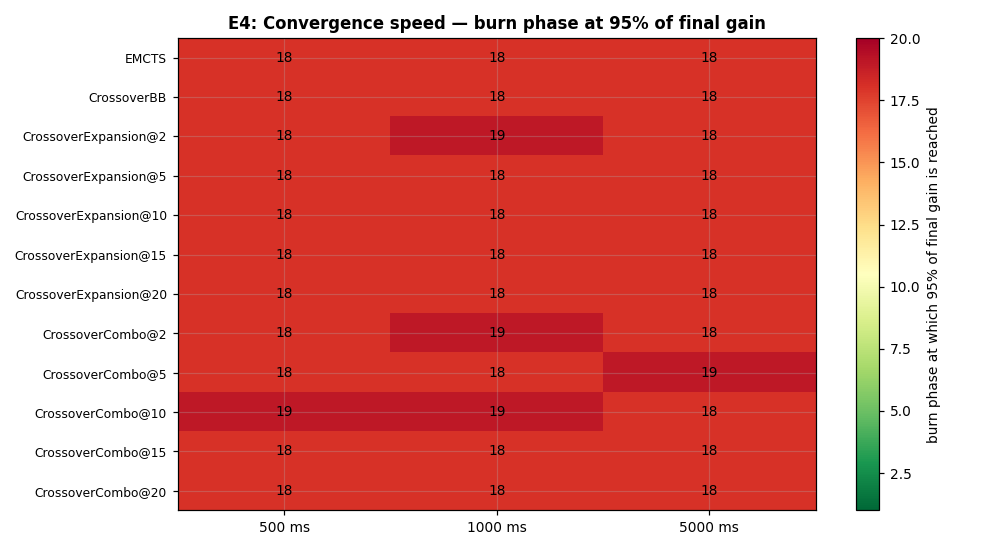
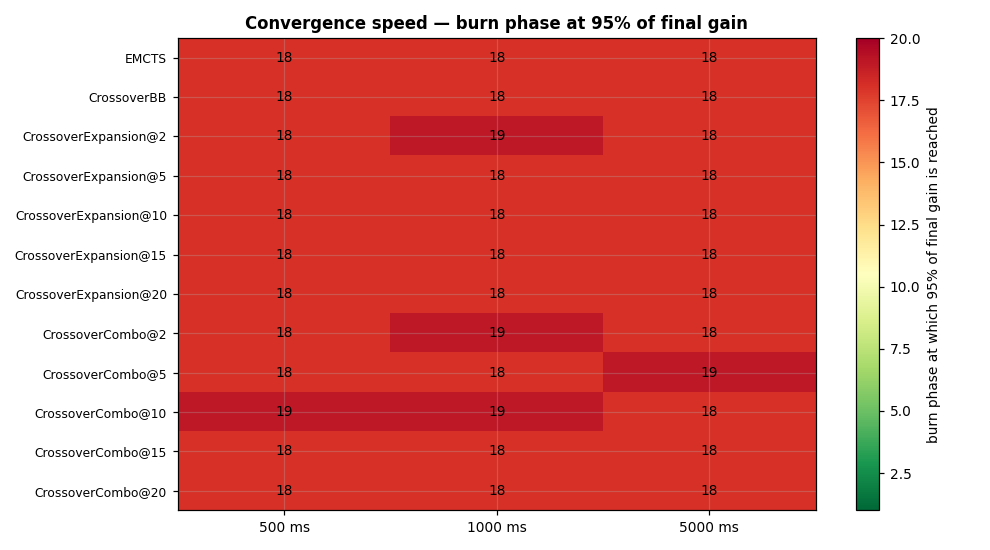
v4 figures: drop "E1:"..."E11:" prefixes from titles
Internal analysis-tracking labels do not belong in report figures - the
report will number them on its own. Eleven figure titles updated; the
filename and the prefixed console log lines are left alone since they
are not visible in the report.

Changed region(s): [[0.2121, 0.0309, 0.7879, 0.0618]]

diff --git a/Tribes-master/analysis/analyze_v4_full.py b/Tribes-master/analysis/analyze_v4_full.py
@@ -408,7 +408,7 @@ def extra_paired_delta_with_ci(turn_df):
         ax.axvline(0, color='black', lw=0.8)
         ax.set_title(f'{key}' + (' ms' if key != 'avg' else ''))
         ax.set_xlabel('paired Δ vs EMCTS (FinalSequenceValue, ±95% CI)')
-    fig.suptitle('E1: Paired Δ vs EMCTS (same scenario × visit pair, ±95% CI)',
+    fig.suptitle('Paired Δ vs EMCTS (same scenario × visit pair, ±95% CI)',
                  fontweight='bold')
     fig.tight_layout(); fig.savefig(FIGS / 'E1_paired_delta_with_ci.png'); plt.close(fig)
     # table
@@ -451,7 +451,7 @@ def extra_best_ratio_per_budget(turn_df):
         ax.set_xticks(RATIOS); ax.set_xlabel('mutationExpansionRatio (higher = less crossover)')
         ax.set_ylabel('paired Δ vs EMCTS')
         ax.set_title(agent_base); ax.legend(fontsize=8)
-    fig.suptitle('E2: Best ratio per budget — Crossover{Expansion,Combo} (paired Δ vs EMCTS)',
+    fig.suptitle('Best ratio per budget — Crossover{Expansion,Combo} (paired Δ vs EMCTS)',
                  fontweight='bold')
     fig.tight_layout(); fig.savefig(FIGS / 'E2_best_ratio_per_budget.png'); plt.close(fig)
 
@@ -494,7 +494,7 @@ def extra_single_vs_dual(turn_df, portfolio):
         ax.set_title(f'{ms} ms')
         ax.set_ylabel('mean FinalSequenceValue advantage over EMCTS')
     axes[0].legend(fontsize=8, loc='lower left')
-    fig.suptitle('E3: Single-player vs dual-player portfolio split — paired Δ vs EMCTS',
+    fig.suptitle('Single-player vs dual-player portfolio split — paired Δ vs EMCTS',
                  fontweight='bold')
     fig.tight_layout(); fig.savefig(FIGS / 'E3_single_vs_dual.png'); plt.close(fig)
 
@@ -561,7 +561,7 @@ def extra_branching_source_diagnostics(turn_df, portfolio):
     ax.set_xlabel('Branching factor (per scenario)')
     ax.set_ylabel('scenario count')
     ax.legend(fontsize=9, loc='upper right')
-    ax.set_title('E6: Branching-factor distribution per source',
+    ax.set_title('Branching-factor distribution per source',
                  fontweight='bold', fontsize=10)
     fig.tight_layout(); fig.savefig(FIGS / 'E6_bf_dist_per_source.png'); plt.close(fig)
     # Mann-Whitney for "are the two distributions different?"
@@ -612,7 +612,7 @@ def extra_branching_source_diagnostics(turn_df, portfolio):
                 ax.text(k, i, f'{v:+.0f}', ha='center', va='center', fontsize=8,
                         color='white' if abs(v) > vmax * 0.55 else 'black')
         fig.colorbar(im, ax=ax, shrink=0.85).set_label('paired Δ vs EMCTS')
-    fig.suptitle('E7: BF-tertile × source heatmap — paired Δ vs EMCTS (averaged over ms and visits)',
+    fig.suptitle('BF-tertile × source heatmap — paired Δ vs EMCTS (averaged over ms and visits)',
                  fontweight='bold')
     fig.tight_layout(); fig.savefig(FIGS / 'E7_bf_tier_source_heatmap.png'); plt.close(fig)
     pivot_single.round(2).to_csv(TABLES / 'E7_bf_tier_single.csv')
@@ -645,7 +645,7 @@ def extra_branching_source_diagnostics(turn_df, portfolio):
         ax.set_xlabel('Branching factor')
         ax.set_ylabel('paired Δ vs EMCTS')
         ax.legend(fontsize=8, loc='lower right')
-    fig.suptitle('E8: Branching factor vs paired Δ vs EMCTS — per-source regression lines',
+    fig.suptitle('Branching factor vs paired Δ vs EMCTS — per-source regression lines',
                  fontweight='bold')
     fig.tight_layout(); fig.savefig(FIGS / 'E8_bf_source_regression.png'); plt.close(fig)
 
@@ -739,7 +739,7 @@ def extra_search_breadth_vs_cost(turn_df):
             ax.plot(x, sub[col].values, marker='o', label=f'{ms} ms', lw=1.5)
         ax.set_xticks(x); ax.set_xticklabels(cfgs_present, rotation=60, ha='right', fontsize=7)
         ax.set_ylabel(ylab); ax.legend(fontsize=8)
-    fig.suptitle('E5: Per-iteration cost decomposition', fontweight='bold')
+    fig.suptitle('Per-iteration cost decomposition', fontweight='bold')
     fig.tight_layout(); fig.savefig(FIGS / 'E5_search_breadth_vs_cost.png',
                                      bbox_inches='tight'); plt.close(fig)
 
@@ -777,7 +777,7 @@ def extra_convergence_speed(df_burn):
             ax.text(j, i, int(v), ha='center', va='center',
                     color='white' if v < 6 else 'black', fontsize=9)
     fig.colorbar(im, ax=ax).set_label('burn phase at which 95% of final gain is reached')
-    ax.set_title('E4: Convergence speed — burn phase at 95% of final gain', fontweight='bold')
+    ax.set_title('Convergence speed — burn phase at 95% of final gain', fontweight='bold')
     fig.tight_layout(); fig.savefig(FIGS / 'E4_convergence_speed.png'); plt.close(fig)
 
 
@@ -849,7 +849,7 @@ def extra_inbreeding(turn_df):
     axB.set_ylabel('unique sequences found per turn')
     axB.set_title('B. Unique sequences per turn (Expansion family)', fontsize=10)
     axB.legend(fontsize=7, loc='upper left')
-    fig.suptitle('E9: Diversity of evaluated sequences vs thinking time', fontweight='bold')
+    fig.suptitle('Diversity of evaluated sequences vs thinking time', fontweight='bold')
     fig.tight_layout(); fig.savefig(FIGS / 'E9_inbreeding.png'); plt.close(fig)
     print('\n  E9 unique-sequence fraction (config × ms):')
     print(frac.round(3).to_string())
@@ -889,7 +889,7 @@ def extra_expansion_bf_time(turn_df, portfolio):
             if row == 1: ax.set_xlabel('branching factor')
             ax.legend(fontsize=6.5, loc='upper right')
     axes[0][0].set_ylim(-60, 60)  # clip to the central bulk so slope lines stay readable
-    fig.suptitle('E10: CrossoverExpansion — branching factor × source × thinking time',
+    fig.suptitle('CrossoverExpansion — branching factor × source × thinking time',
                  fontweight='bold')
     fig.tight_layout(); fig.savefig(FIGS / 'E10_expansion_bf_source_time.png'); plt.close(fig)
 
@@ -922,7 +922,7 @@ def extra_source_effect_vs_time(turn_df, portfolio):
     ax.set_xscale('log'); ax.set_xticks(MS_LEVELS); ax.set_xticklabels([str(m) for m in MS_LEVELS])
     ax.set_xlabel('thinking time (ms, log scale)')
     ax.set_ylabel('dual advantage  =  mean(dual paired Δ) − mean(single paired Δ)')
-    ax.set_title('E11: Dual-vs-single advantage vs thinking time', fontweight='bold')
+    ax.set_title('Dual-vs-single advantage vs thinking time', fontweight='bold')
     ax.legend(fontsize=8, ncol=2)
     fig.tight_layout(); fig.savefig(FIGS / 'E11_source_advantage_vs_time.png'); plt.close(fig)
     print('\n  E11 dual-minus-single advantage by ms (positive = stronger in dual):')
